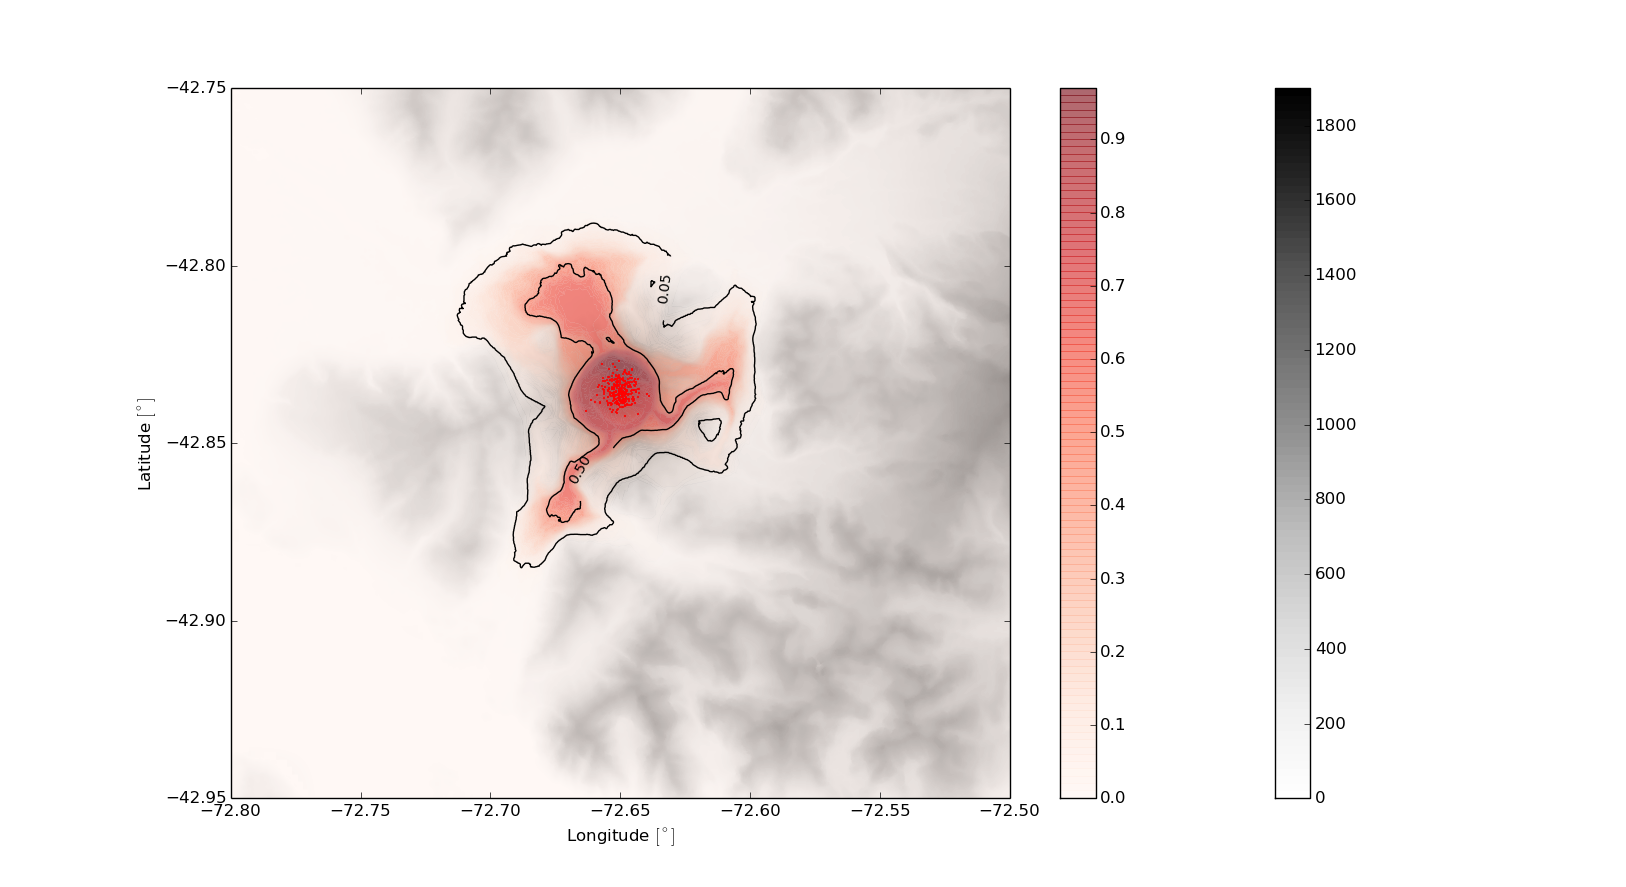
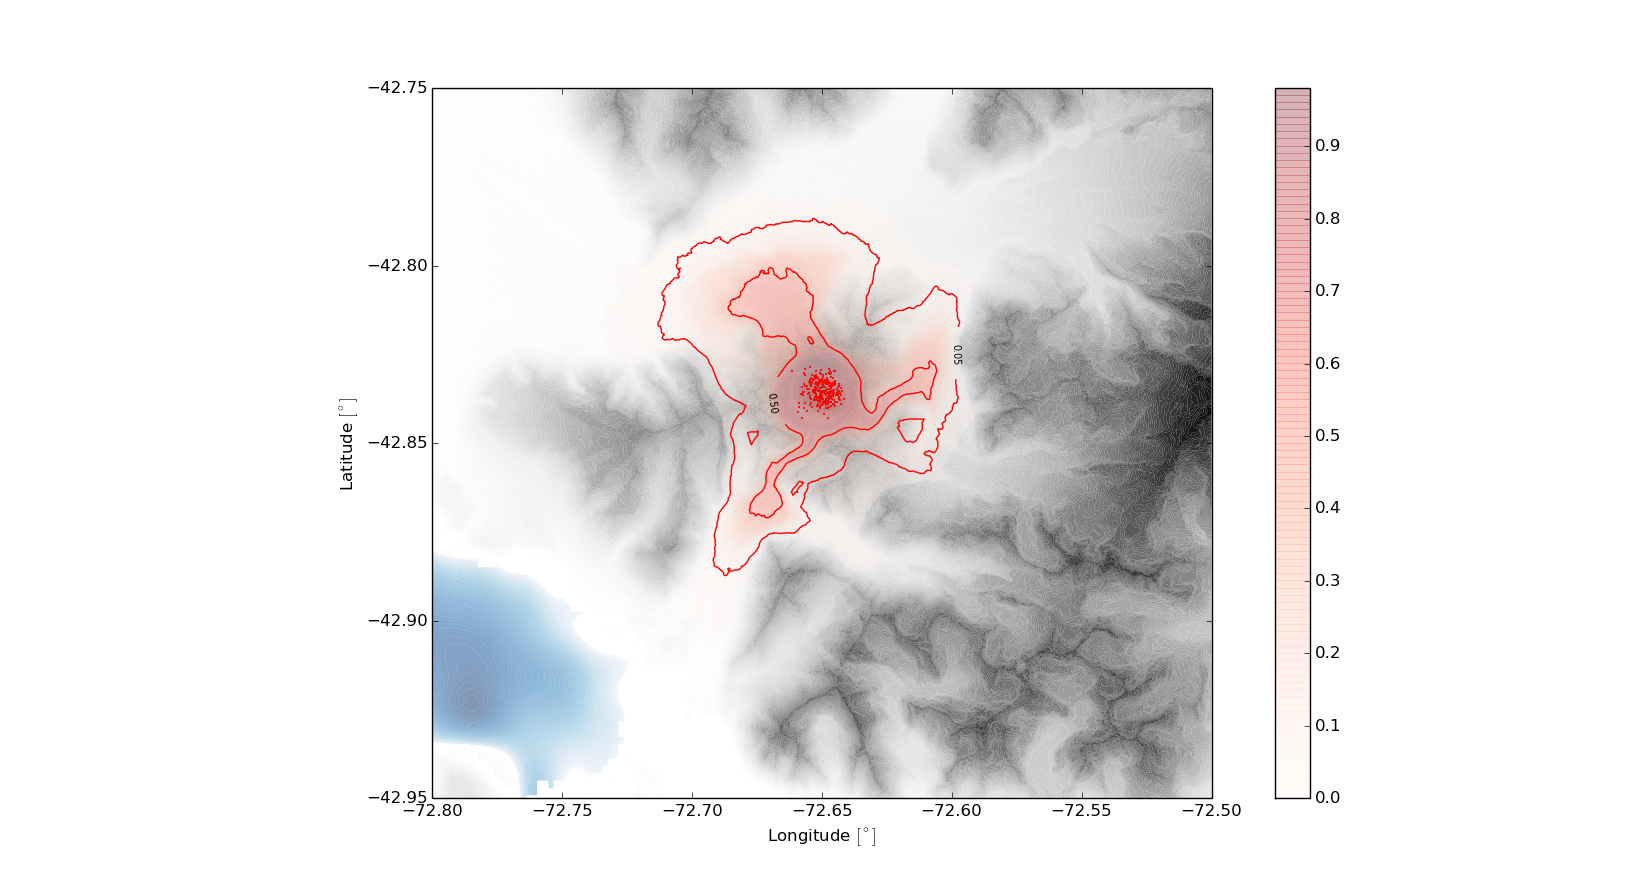
Changes in examples

diff --git a/ECMapProb.py b/ECMapProb.py
@@ -175,6 +175,12 @@ if(source_dem == 1):
 			image = page.asarray()
 	elevation.clean()
 	Topography = np.array(image)
+
+	Topography_Sea = Topography + 0.0
+	Topography_Sea[ Topography_Sea[:,:] <= 0] = -1.0 * np.sqrt(-1.0 * Topography_Sea[ Topography_Sea[:,:] <= 0])
+	Topography_Sea[ Topography_Sea[:,:] > 0] =  np.nan
+	Topography_Sea = Topography_Sea * -1.0
+
 	Topography  = (Topography  + abs(Topography)) / 2.0
 	cells_lon = Topography.shape[1]
 	cells_lat = Topography.shape[0]
@@ -214,6 +220,12 @@ if(source_dem == 2):
 		aux = line[i].split()
 		for j in range(0, n_east):
 			Topography[i-indexini,j] = float(aux[j])
+
+	Topography_Sea = Topography + 0.0
+	Topography_Sea[ Topography_Sea[:,:] <= 0] = -1.0 * np.sqrt(-1.0 * Topography_Sea[ Topography_Sea[:,:] <= 0])
+	Topography_Sea[ Topography_Sea[:,:] > 0] =  np.nan
+	Topography_Sea = Topography_Sea * -1.0
+	Topography  = (Topography  + abs(Topography)) / 2.0
 
 # DEFINE THE MATRIX OF COORDINATES
 if(source_dem == 1):
@@ -573,19 +585,29 @@ if( source_dem == 2):
 if(source_dem == 1):
 
 	data_cones = data_cones[ range(len(data_cones[:,0]) -1 , -1 , -1 ) , : ] / N
+	line_val = data_cones.max()
+	data_cones[data_cones[:,:] == 0] =  np.nan
+	val_up = np.floor((line_val + 0.1 - 1.0 / N ) * 10.0) / 20.0
+	val_down = np.max( val_up / 10.0 , 0.02 )
+
 	plt.figure(1)
 	cmapg = plt.cm.get_cmap('Greys')
-	plt.contourf(matrix_lon,matrix_lat,Topography,100,cmap=cmapg,min=0)
-	plt.colorbar()
 	cmapr = plt.cm.get_cmap('Reds')
+	cmaps = plt.cm.get_cmap('Blues') 
+
 	if( N > 1 ):
-		CS = plt.contourf(matrix_lon, matrix_lat, data_cones, 100, vmax = 1,  alpha= 0.6, interpolation='linear', cmap=cmapr, antialiased=True, lw=0.01)	
+		CS_Topo = plt.contourf(matrix_lon,matrix_lat,Topography, 100, alpha = 1.0, cmap = cmapg ,antialiased=True, lw=0.0001)
+		CS_Sea = plt.contourf(matrix_lon,matrix_lat,Topography_Sea, 100, alpha = 0.5, cmap = cmaps ,antialiased=True, lw=100)
+		CS = plt.contourf(matrix_lon, matrix_lat, data_cones, 100, vmin = 0.0, vmax = 1.0,  alpha= 0.3, interpolation='linear', cmap=cmapr, antialiased=True, lw=0.01)	
 		fmt = '%.2f'
 		plt.colorbar()
-		CS_lines = plt.contour(matrix_lon,matrix_lat,data_cones, np.array([0.05, 0.5]), colors='k', interpolation='linear', lw=0.01)
-		plt.clabel(CS_lines, inline=1, fontsize=10, colors='k', fmt=fmt)
+		CS_lines = plt.contour(matrix_lon,matrix_lat,data_cones, np.array([val_down, val_up]), colors='r', interpolation='linear', lw=0.01)
+		plt.clabel(CS_lines, inline=0.1, fontsize = 7, colors='k', fmt=fmt)
 	else:
-		CS = plt.contourf(matrix_lon, matrix_lat, data_cones, 100, alpha= 0.6, interpolation='nearest', cmap=cmapr, antialiased=True, lw=0.01)
+		CS_Topo = plt.contourf(matrix_lon,matrix_lat,Topography, 100, alpha = 1.0, cmap = cmapg ,antialiased=True, lw=0.0001)
+		CS_Sea = plt.contourf(matrix_lon,matrix_lat,Topography_Sea, 100, alpha = 0.5, cmap = cmaps ,antialiased=True, lw=100)
+		CS = plt.contourf(matrix_lon, matrix_lat, data_cones, 100, alpha= 0.3, interpolation='nearest', cmap=cmapr, antialiased=True, lw=0.01)
+
 	plt.axes().set_aspect(step_lat_m/step_lon_m)
 	plt.xlabel('Longitude $[^\circ]$')
 	plt.ylabel('Latitude $[^\circ]$')
@@ -618,20 +640,31 @@ if(source_dem == 1):
 	plt.show()
 
 if(source_dem == 2):
+
 	data_cones = data_cones[ range(len(data_cones[:,0]) -1 , -1 , -1 ) , : ] / N
+	line_val = data_cones.max()
+	data_cones[data_cones[:,:] == 0] =  np.nan
+	val_up = np.floor((line_val + 0.1 - 1.0 / N ) * 10.0) / 20.0
+	val_down = np.max( val_up / 10.0 , 0.02 )
+
 	plt.figure(1)
+
 	cmapg = plt.cm.get_cmap('Greys')
-	plt.contourf(matrix_east,matrix_north,Topography,100,cmap=cmapg,min=0)
-	plt.colorbar()
 	cmapr = plt.cm.get_cmap('Reds')
+	cmaps = plt.cm.get_cmap('Blues') 
+
 	if( N > 1 ):
-		CS= plt.contourf(matrix_east,matrix_north,data_cones, 100, vmax = 1, alpha= 0.6,interpolation='linear',cmap=cmapr ,antialiased=True, lw=0.01)	
+		CS_Topo = plt.contourf(matrix_east,matrix_north,Topography, 100, alpha = 1.0, cmap = cmapg ,antialiased=True, lw=0.0001)
+		CS_Sea = plt.contourf(matrix_east,matrix_north,Topography_Sea, 100, alpha = 0.5, cmap = cmaps ,antialiased=True, lw=100)
+		CS = plt.contourf(matrix_east,matrix_north, data_cones, 100, vmin = 0.0, vmax = 1.0,  alpha= 0.3, interpolation='linear', cmap=cmapr, antialiased=True, lw=0.01)	
 		fmt = '%.2f'
 		plt.colorbar()
-		CS_lines = plt.contour(matrix_east, matrix_north, data_cones, np.array([0.05, 0.5]), colors='k', interpolation='linear', lw=0.01)
-		plt.clabel(CS_lines, inline=1, fontsize=10, colors='k', fmt=fmt)
+		CS_lines = plt.contour(matrix_east,matrix_north, data_cones, np.array([val_down, val_up]), colors='r', interpolation='linear', lw=0.01)
+		plt.clabel(CS_lines, inline=0.1, fontsize = 7, colors='k', fmt=fmt)
 	else:
-		CS = plt.contourf(matrix_east,matrix_north,data_cones, 100, alpha= 0.6, interpolation='nearest', cmap=cmapr, antialiased=True, lw=0.01)	
+		CS_Topo = plt.contourf(matrix_lon,matrix_lat,Topography, 100, alpha = 1.0, cmap = cmapg ,antialiased=True, lw=0.0001)
+		CS_Sea = plt.contourf(matrix_lon,matrix_lat,Topography_Sea, 100, alpha = 0.5, cmap = cmaps ,antialiased=True, lw=100)
+		CS = plt.contourf(matrix_east,matrix_north,data_cones, 100, alpha= 0.3, interpolation='nearest', cmap=cmapr, antialiased=True, lw=0.01)	
 	plt.axes().set_aspect(1.0)
 	plt.xlabel('East [m]')
 	plt.ylabel('North [m]')

diff --git a/EXAMPLES/Vesuvius_A/input_data.py b/EXAMPLES/Vesuvius_A/input_data.py
@@ -40,7 +40,7 @@ var_cen = 500.0
 # hl = H/L for the energy cones
 # var_height = uncertainty of collapse height (in meters)
 # var_hl = uncertainty of hl
-height = 600.0
+height = 800.0
 hl = 0.40
 var_height = 300.0
 var_hl = 0.05
